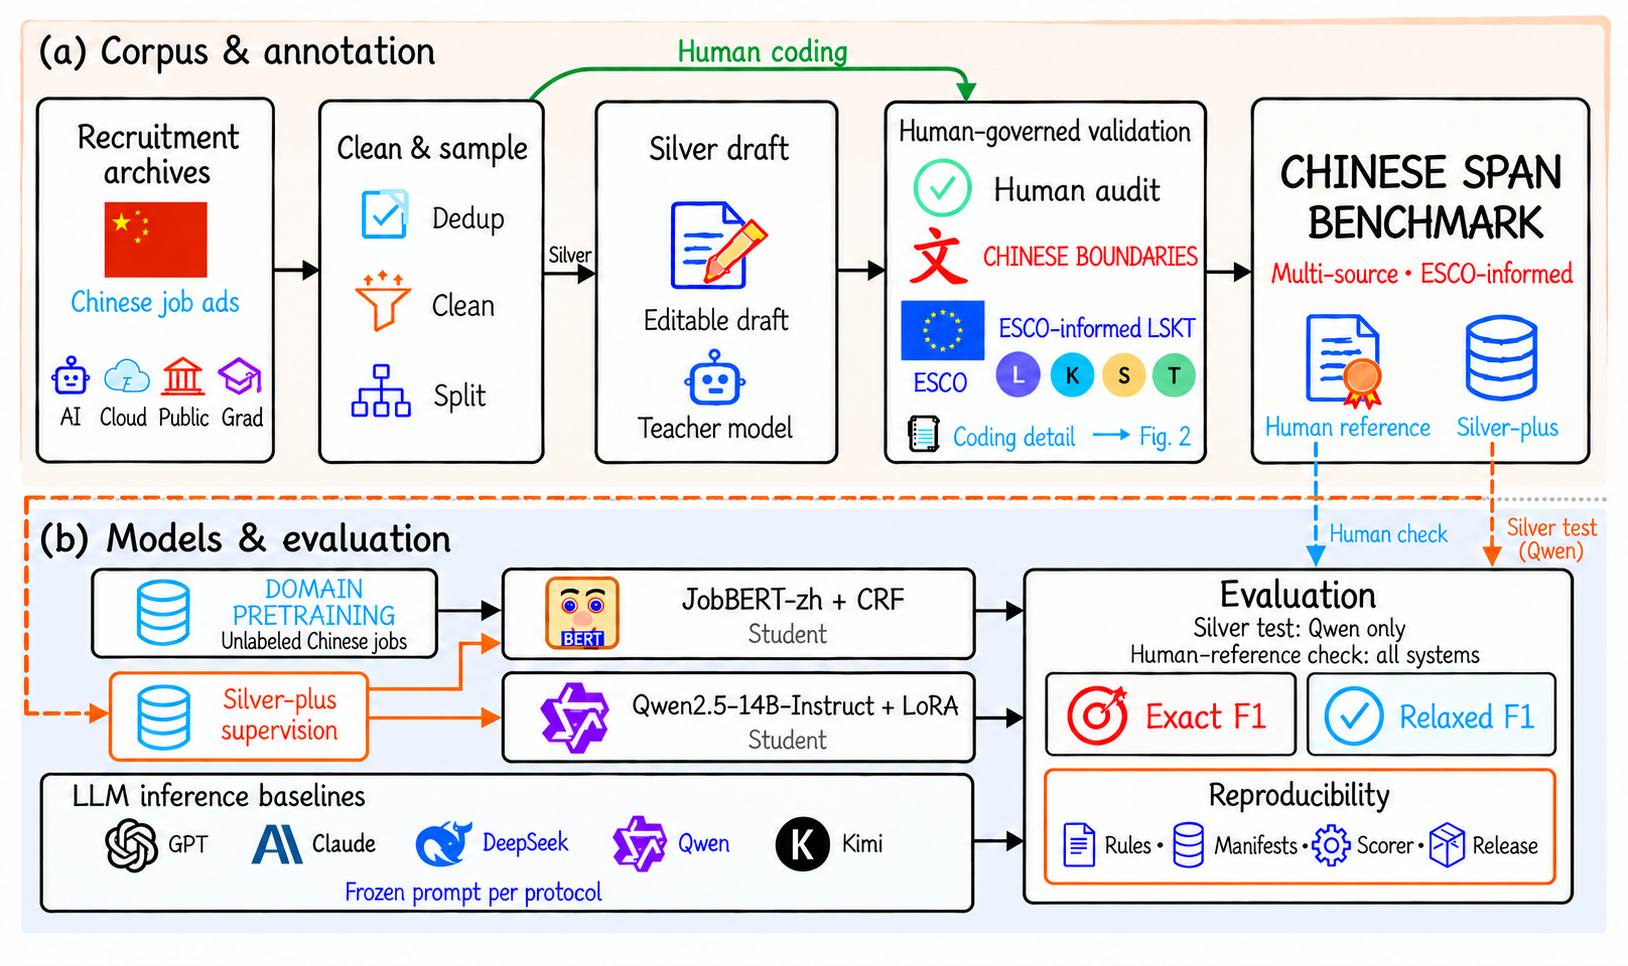
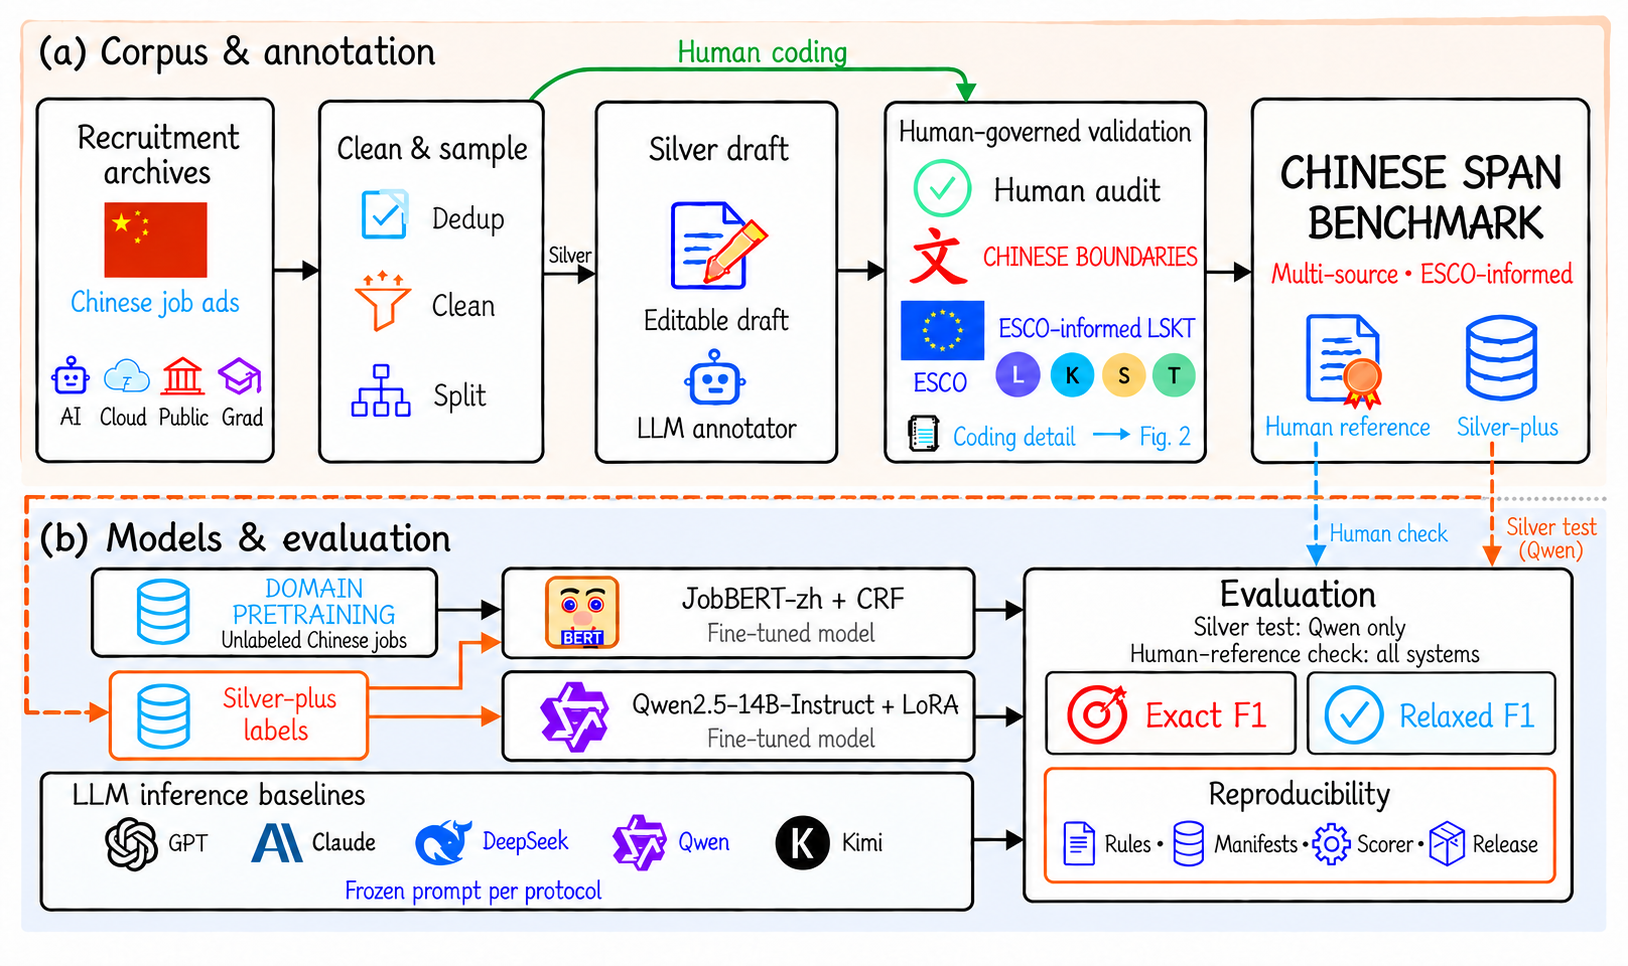
Align LLM annotation and supervised fine-tuning terminology

diff --git a/reproduction/experimental_notes/README.md b/reproduction/experimental_notes/README.md
@@ -17,7 +17,7 @@ These notes accompany the Round 2 repository synchronization. Historical availab
 |---|---|---|
 | Six shared-guideline inference configurations | Extraction with common instructions and output schema | Access paths, models, and inference budgets differ; this is a descriptive comparison of recorded configurations. |
 | Qwen without adapter versus B2 LoRA | Task adaptation under a fixed inference protocol | Use the same base model, messages, examples, occurrence schema, parser, decoding, and reference. There is no B1 Qwen fine-tuning condition. |
-| JobBERT B1 versus B2 | Revised training supervision together with development-based checkpoint selection | Both training and development labels change. This does not isolate teacher identity, an individual rule, or label quality alone. |
+| JobBERT B1 versus B2 | Revised training supervision together with development-based checkpoint selection | Both training and development labels change. This does not isolate annotation-model identity, an individual rule, or label quality alone. |
 | Historical SOP or JSON-offset experiments | Earlier extraction and supervision settings | Keep their original inputs, output contracts, labels, and selection conditions. Do not substitute them for the current Qwen no-adapter baseline. |
 | Historical training-source, pool-extension, and cleaning studies | Supplementary sensitivity observations | These studies also change composition, initialization, or selection; they are not controlled sample-size or single-factor effects. |
 
@@ -33,7 +33,7 @@ The human reference includes a 50-sentence calibration cohort and a 100-sentence
 
 The reference contains 663 spans, including only two L spans; its micro scores are dominated by S. Identifier prefixes provide 61 document groupings, not independently reconstructed advertisements. Original wording redistribution and implemented privacy treatment require collection-record confirmation; public webpage access alone does not establish redistribution rights.
 
-## 3. Student manifests and duplicate handling
+## 3. Training manifests and duplicate handling
 
 The primary JobBERT v6a uses 2,156 training and 169 development records, including six training records that match three development texts under NFC. Removing these yields the Qwen `v6a_nocross` split of 2,150/169. Both are sentence-level extensions rather than document-isolated splits. JobBERT and Qwen retain 1,913 and 1,910 distinct NFC training texts, respectively. No human-reference identifier or full NFC reference text occurs in these train/development splits. NFC comparisons do not change the original scored strings or character offsets.
 
@@ -51,7 +51,7 @@ The later QA100 review has 140 exact matches between 144 machine and 148 reviewe
 
 The pre-generation A100 has historical 419-span supervision and a later 432-span review layer. These versions do not overwrite labels used in completed runs. The authors report an earlier independent 15-sentence A100 exercise without exposure to machine predictions or the other coder's spans. Its original exports, mapping, chronology, and metric have not been reconciled with the retained files. Archived Dual15 instead belongs to machine-prefilled QA100, with 27 identical spans in each layer. It cannot supply an independent agreement coefficient for the earlier exercise or a matched pre/post reliability result.
 
-Human-coding diagnostics record 21 Coder B typing disagreements involving job-use tools labeled K rather than adjudicated S, Coder A K recall of 0.29, and missed T mentions. Both coders missed the single L span in the calibration cohort. These are human-coding observations and cannot be reinterpreted as student-model error frequencies. The existing historical rounding discrepancy for Coder A recall is retained with its explanation in Appendix B.
+Human-coding diagnostics record 21 Coder B typing disagreements involving job-use tools labeled K rather than adjudicated S, Coder A K recall of 0.29, and missed T mentions. Both coders missed the single L span in the calibration cohort. These are human-coding observations and cannot be reinterpreted as trained-model error frequencies. The existing historical rounding discrepancy for Coder A recall is retained with its explanation in Appendix B.
 
 ## 5. JobBERT implementation and checkpoint recovery
 
@@ -85,7 +85,7 @@ Figure 5 preserves all four runs' accepted-span results. The eight empty-referen
 
 ## 9. Version compatibility and admission decisions
 
-The reference, V4.2.12-based teacher prompt, shared `rev2 patch1` protocol, and V4.2.14 handbook have separate identities. Later amendments did not regenerate earlier labels or execution protocols. Case `1838-s0008` changes from S `[9,25)` to `[9,16)` and `[17,19)`, retaining S `[26,37)`. It is present in the teacher layer and absent from the 150-sentence reference by ID and exact text. This targeted check does not establish full compatibility of later rules with all frozen annotations.
+The reference, V4.2.12-based annotation prompt, shared `rev2 patch1` protocol, and V4.2.14 handbook have separate identities. Later amendments did not regenerate earlier labels or execution protocols. Case `1838-s0008` changes from S `[9,25)` to `[9,16)` and `[17,19)`, retaining S `[26,37)`. It is present in the LLM-annotation layer and absent from the 150-sentence reference by ID and exact text. This targeted check does not establish full compatibility of later rules with all frozen annotations.
 
 The historical 82-record adjudication queue is not a permanent exclusion set. Its later registry has 53 resolved, three confirmed-empty, and 26 undetermined records. The Qwen manifest admits 51 resolved and three confirmed-empty records to training and one resolved record to development, with none of the 26 undetermined records. These are Qwen membership counts, not a replacement JobBERT manifest.
 

diff --git a/PAPER_NAMES.md b/PAPER_NAMES.md
@@ -1,6 +1,6 @@
 # Resource names used in the paper
 
-Use these names when reading the manuscript. Exact paths stay unchanged for reproducibility.
+Use these names when reading the manuscript. Exact paths stay unchanged for reproducibility. See the [annotation and training terminology](docs/terminology.md) for the current role names and historical aliases.
 
 | Paper name | Resource |
 |---|---|
@@ -27,13 +27,13 @@ Short names in the manuscript are display aliases. Original file paths, experime
 | model | DeepSeek | `DeepSeek-V4-Pro; deepseek-v4-pro` | Non-thinking/thinking are configurations of the same model. Preserve API model ID, mode, and output cap; never merge the two rows. |
 | model | Kimi | `Kimi k2.6` | Version retained at first use. Display alias; preserve recorded configuration. |
 | model | GPT proxy | `gpt-5.6-terra` | Proxy-returned identifier; provider routing/checkpoint not independently verified. Never rename this to an asserted official GPT model; preserve raw metadata. |
-| model | teacher configuration | `gpt-6-astra` | Recorded teacher identifier, distinct from the GPT proxy evaluated configuration. Keep original teacher metadata; do not infer model equivalence. |
+| model | annotation-model configuration | `gpt-6-astra` | Recorded annotation-model identifier, distinct from the GPT proxy evaluated configuration. Keep original annotation-model metadata; do not infer model equivalence. |
 | model | JobBERT-zh initialization | `https://huggingface.co/AlfredJames/jobbert-zh` | Released 3M domain-adapted encoder with inherited V4 CRF. Keep published URL and model repository ID. |
 | model | JobBERT-zh continuation | `https://huggingface.co/AlfredJames/jobbert-zh-v6a` | Current B2 continuation; default released checkpoint is seed 42. Keep published URL and repository ID; do not replace initialization. |
 | experiment | primary JobBERT configuration | `v6a` | 2156 train / 169 dev; earlier versus revised labels. Documentation alias only; preserve manifest names. |
 | experiment | Qwen training split | `v6a_nocross` | 2150 train / 169 dev; train/dev exact NFC text matches removed. Keep exact manifest and membership. |
 | dataset | human reference | `Gold150; gold150_test.jsonl` | 150 sentences; 663 spans. Keep canonical file, hashes and scripts; add a descriptive README alias. |
-| dataset | initial review | `A100` | 100 teacher-label records reviewed before bulk generation. Keep A100 IDs; distinguish later independent exercise claim and later review versions. |
+| dataset | initial review | `A100` | 100 records with LLM-generated labels reviewed before bulk generation. Keep A100 IDs; distinguish later independent exercise claim and later review versions. |
 | dataset | post-generation review | `QA100` | 100 records in the later stratified review. Keep QA100 IDs and sampled membership. |
 | dataset | nested review subset | `Dual15` | 15-sentence QA100 auditor subset; September 17 export verifies separate coder queues and confirmations. It is distinct from IAA-50 blind calibration. |
 | dataset | further conflict-origin records | `H730` | 730 Silver-plus records from the conflict queue beyond the initial review. Keep H730 IDs and membership. |
@@ -56,7 +56,7 @@ Short names in the manuscript are display aliases. Original file paths, experime
 - Keep the primary data, frozen metadata, source IDs, experiment keys and public model URLs unchanged. Prefer readable documentation links and aliases over renaming these files.
 - The illustrated workflow retains the full Qwen label as a self-contained model identification. Its name maps to the same Qwen alias.
 - The Dual15 export supports independent submissions within the QA100 review design; it does not establish blind raw-text coding.
-- GPT proxy and the teacher configuration are recorded identifiers, not independently verified official model identities.
+- GPT proxy and the annotation-model configuration are recorded identifiers, not independently verified official model identities.
 - Existing historical notes may use canonical identifiers; preserve those records and link to this guide instead of mass replacement.
 
 The CSV mapping is in `reproduction/paper_names.csv`. The containing Git commit identifies this documentation version.

diff --git a/docs/paper_body_silver_plus.md b/docs/paper_body_silver_plus.md
@@ -8,13 +8,13 @@ Human reference freeze (artifact Gold150) SHA-256: `ca8db0bc386c24543fec845d42ea
 
 **Names (0911 PDF).** Write **human reference set**, **challenge cohort**, and **calibration cohort** in manuscript body. Keep file `gold150_test.jsonl` and Appendix D aliases Gold150 / Challenge-100 / Audit-50. Current JobBERT evaluation on this freeze is v6a B2 **0.5536±0.0054**. V4 hybrid 2601 JobBERT-zh 3M **0.4331** is a derived / historical protocol.
 
-These numbers **must not** be subtracted from, or ranked in the same main table as, V4 hybrid 2601 JobBERT-zh 3M **0.4331** or official zero-shot Qwen SOP extract **0.1724**. Human-reference IDs sit inside hybrid 2601; scoring the same student again on full 2601 is not an independent test.
+These numbers **must not** be subtracted from, or ranked in the same main table as, V4 hybrid 2601 JobBERT-zh 3M **0.4331** or official zero-shot Qwen SOP extract **0.1724**. Human-reference IDs sit inside hybrid 2601; scoring the same trained model again on full 2601 is not an independent test.
 
 Isolation wording: **sentence-level isolation (extended)**. Do not call it document isolation after v4.
 
 ---
 
-## 1. Two students, two fine-tuning regimes
+## 1. Two trained models, two fine-tuning regimes
 
 JobBERT-zh and Qwen2.5-14B-Instruct are **not** the same fine-tuning recipe. They do not share a prompt, a loss, or a decoder.
 
@@ -27,13 +27,13 @@ JobBERT-zh and Qwen2.5-14B-Instruct are **not** the same fine-tuning recipe. The
 | Official SOP extract 0.1724 | Not this protocol | **Not this protocol** (0.1724 is zero-shot SOP, no LoRA) |
 | B1 vs B2 | Same characters, different BIO | Same instruction, different target JSON |
 
-B1/B2 is a **label-scheme** contrast on identical sentences (old SOP-style vs teacher Silver-plus), not two prompts and not a teacher-architecture ablation. Gains should be read as the package “handbook + teacher + adjudication”.
+B1/B2 is a **label-scheme** contrast on identical sentences (old SOP-style vs LLM-generated Silver-plus labels), not two prompts and not a annotation-model architecture ablation. Gains should be read as the package “handbook + LLM annotation + adjudication”.
 
 ---
 
 ## 2. JobBERT-zh — sequence labelling, no prompt
 
-**Initialisation (v3–v6a main runs).** Encoder + CRF from the public `AlfredJames/jobbert-zh` checkpoint, including released `crf/best.pt`. A new independence claim **cannot** inherit that CRF: the original 3M selection `history.json` is missing. HEM (below) re-initialises the CRF and is a different student.
+**Initialisation (v3–v6a main runs).** Encoder + CRF from the public `AlfredJames/jobbert-zh` checkpoint, including released `crf/best.pt`. A new independence claim **cannot** inherit that CRF: the original 3M selection `history.json` is missing. HEM (below) re-initialises the CRF and is a different trained model.
 
 **Input.** Characters (`tokens = list(sentence)`), WordPiece with `is_split_into_words=True`, `max_len=256`. Nine-way joint LSKT BIO. No handbook text, no system message, no few-shot.
 
@@ -167,7 +167,7 @@ P1 $k=0$ seeds: 0.1293 / 0.1399 / 0.1673. Mean +0.024 versus P0, but the n=3 sam
 
 ### Table F — frozen V4/SOP predictions on Gold150 (not a new API)
 
-The 150 Gold IDs sit inside hybrid 2601. Same frozen SOP-extract v4 predictions, new human gold, raw spans, no jieba. Official `gpt-4o`+SOP was never run. Do not rank against JobBERT student 0.5536 or mix with the older ChatGPT `@@span##` dump.
+The 150 Gold IDs sit inside hybrid 2601. Same frozen SOP-extract v4 predictions, new human gold, raw spans, no jieba. Official `gpt-4o`+SOP was never run. Do not rank against fine-tuned JobBERT 0.5536 or mix with the older ChatGPT `@@span##` dump.
 
 | System (SOP extract v4) | exact | relaxed |
 |---|---:|---:|

diff --git a/docs/terminology.md b/docs/terminology.md
@@ -1,0 +1,21 @@
+# Annotation and training terminology
+
+The benchmark uses LLM-generated discrete span labels for supervised model training and evaluation. Human coding builds the reference; sampled review checks selected model annotations. These are distinct roles.
+
+| Earlier wording | Current wording | Meaning |
+|---|---|---|
+| Teacher model / teacher configuration | LLM annotator / annotation-model configuration | Model and access configuration used to generate labels |
+| Teacher annotation / teacher-generated labels | LLM annotation / LLM-generated labels | Discrete competency spans and types |
+| Teacher supervision and sampled review | LLM annotation and sampled review | Label generation followed by review of sampled records |
+| Student model | Fine-tuned model | JobBERT or Qwen trained using the specified labels |
+| Student learning | Supervised fine-tuning | Task adaptation with labelled training examples |
+| Admitted records | Retained records | Records included after the documented annotation checks |
+| Manifest | Split manifest | Exact record list for a training, validation or test subset |
+
+Silver-plus denotes the model-annotated resource, including documented reviewed subsets; it does not imply that every label has been manually checked. The human-reference set contains 150 sentences. Total human coding or review covers 500 unique sentences with different designs; this is not a 500-sentence Gold test set.
+
+The paper describes the implemented annotation and supervised-training procedure without claiming a separate knowledge-distillation method. Literature uses distillation in different senses, including learning from generated labels. References to distillation in descriptions of other published methods retain their original meaning. `Supervision`, `fine-tuning`, `LoRA`, `CRF`, and `domain-adaptive pretraining` remain appropriate where they describe the actual experiment.
+
+Current prose and figure captions use these terms. Historical snapshots, frozen prompt text, command-line options, model IDs, source paths, result keys, labels and hashes keep their original bytes. A historical `teacher` or `student` identifier is an alias, not evidence of an additional training objective. See [the resource mapping](../PAPER_NAMES.md) and [evaluation guide](../reproduction/EVALUATION_ENTRY.md).
+
+Background: [Tan et al. (2024), Large Language Models for Data Annotation and Synthesis](https://aclanthology.org/2024.emnlp-main.54/).

diff --git a/README.md b/README.md
@@ -12,21 +12,23 @@ A benchmark for extracting competency spans from Chinese job advertisements, wit
 |---|---:|---|
 | Original corpus | 22,840 sentences | Four recruitment collections |
 | Human reference | 150 sentences, 663 spans | Evaluation against human annotations |
-| Original Silver-plus pool | 2,451 records | Teacher-generated supervision |
+| Original Silver-plus pool | 2,451 records | LLM-generated labels |
 | Released Qwen B2 split | 2,150 training / 169 development | Matched Qwen adaptation study |
-| Expanded Codex pool | 9,540 admitted sentences | Later experiment; final partitions are not fully released |
+| Expanded Codex pool | 9,540 retained sentences | Later experiment; final partitions are not fully released |
 | Human coding and review | 500 unique sentences | Reference construction and quality checks; not 500 Gold test sentences |
+
+Terminology follows the [annotation and training guide](docs/terminology.md).
 
 The task uses flat character spans with four types: language (L), knowledge (K), occupational skills (S), and transversal competences (T). The categories are ESCO-informed; the task does not assign ESCO concept IDs.
 
 ## Get started
 
 1. **Use the data:** download the [v0.1.3 archive](https://doi.org/10.5281/zenodo.22698504), then read the [human-reference guide](data/gold150/README.md) and [annotation handbook](notes/handbooks/handbook_B_sop_v4.md).
-2. **Inspect results:** open the [paper-to-file index](reproduction/PAPER_INDEX.md). It separates shared-guideline inference, student adaptation, and expanded-Silver experiments.
+2. **Inspect results:** open the [paper-to-file index](reproduction/PAPER_INDEX.md). It separates shared-guideline inference, supervised adaptation, and expanded-Silver experiments.
 3. **Reproduce a score:** follow the [evaluation guide](reproduction/EVALUATION_ENTRY.md) with the matching protocol and saved predictions.
 4. **Use a model:** see the [JobBERT model guide](docs/models.md). The encoder and CRF checkpoint have separate loading requirements.
 
-## Main student comparisons
+## Main fine-tuning comparisons
 
 | Study | Comparison | Typed exact F1 on the human reference |
 |---|---|---:|

diff --git a/reproduction/EVALUATION_ENTRY.md b/reproduction/EVALUATION_ENTRY.md
@@ -1,6 +1,6 @@
 # Evaluation entry for the current manuscript
 
-Use this entry for shared-guideline inference, student comparisons, and Qwen diagnostics (Tables 5, 6, 13 and Figure 5). Expanded-pool results are documented in [their study guide](expanded_silver/README.md). The [paper index](PAPER_INDEX.md) distinguishes historical tables. Read [paper names](../PAPER_NAMES.md) and [experimental notes](experimental_notes/README.md) before selecting artifacts.
+Use this entry for shared-guideline inference, fine-tuning comparisons, and Qwen diagnostics (Tables 5, 6, 13 and Figure 5). Expanded-pool results are documented in [their study guide](expanded_silver/README.md). The [paper index](PAPER_INDEX.md) distinguishes historical tables. Read [paper names](../PAPER_NAMES.md) and [experimental notes](experimental_notes/README.md) before selecting artifacts.
 
 ## 1. Select the comparison
 

diff --git a/reproduction/expanded_silver/README.md b/reproduction/expanded_silver/README.md
@@ -7,7 +7,7 @@ These later experiments combine earlier B2 supervision with new annotations. The
 | Proxy variant | 8,943 / 351 / 352 | 0.7585 | 0.5966 |
 | Codex variant | 8,842 / 348 / 350 | 0.8092 | 0.5854 |
 
-Both Qwen runs use seed 42. The variants replace labels for a 2,500-sentence candidate subset and differ in admission; they are not a controlled comparison of annotation channels alone. The complete admitted pools contain 9,646 and 9,540 records, respectively, rather than the initial target of 10,000.
+Both Qwen runs use seed 42. The variants replace labels for a 2,500-sentence candidate subset and differ in which records are retained; they are not a controlled comparison of annotation channels alone. The complete retained pools contain 9,646 and 9,540 records, respectively, rather than the initial target of 10,000.
 
 ## Files and access
 

diff --git a/reproduction/historical_results/README.md b/reproduction/historical_results/README.md
@@ -2,4 +2,4 @@
 
 These three archived tables were removed during the preceding Stage 2 revision and remain part of the companion evidence. Their original numbers, names, conditions and warnings are retained in [the original TeX](HISTORICAL_RESULTS_RETAINED.tex). [The row index](HISTORICAL_RESULTS.md) and [version notes](HISTORICAL_VERSION_NOTES.md) are historical snapshots; statements there about being local refer to the time they were prepared.
 
-Use [the current paper index](../PAPER_INDEX.md) for current table numbers. These results do not replace the current Qwen baseline or the matched student comparisons.
+Use [the current paper index](../PAPER_INDEX.md) for current table numbers. These results do not replace the current Qwen baseline or the matched fine-tuning comparisons.

diff --git a/data/silver_plus_v6a_nocross/README.md b/data/silver_plus_v6a_nocross/README.md
@@ -1,6 +1,6 @@
 # Silver-plus B2 (`v6a_nocross`, 2026-09-08)
 
-Teacher supervision for student runs scored on the **human reference set**. **Not** additional human-reference evaluation labels, even where rows were human-reviewed.
+LLM-generated labels for supervised training runs scored on the **human reference set**. **Not** additional human-reference evaluation labels, even where rows were human-reviewed.
 
 | File | n | Bytes | SHA-256 |
 |---|---:|---:|---|
